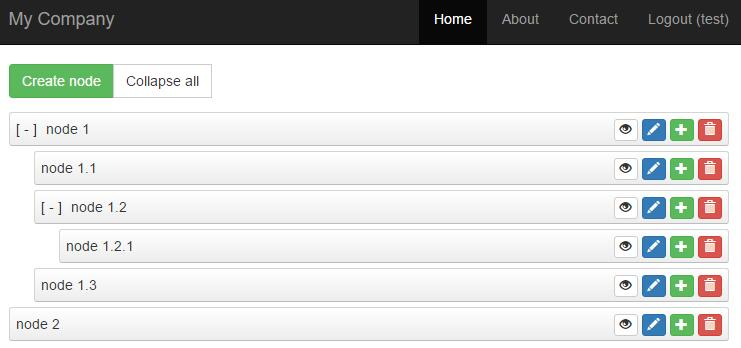
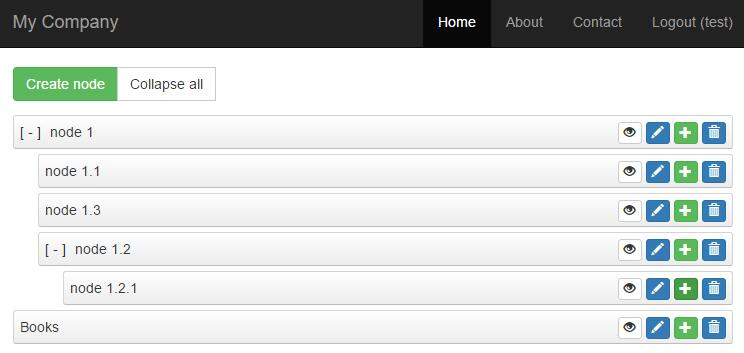
v0.0.17 (ADD# node move action)

diff --git a/src/assets/js/tree-view.js b/src/assets/js/tree-view.js
@@ -1,105 +1,75 @@
+/**
+ * Defines global variables.
+ *
+ * Assigned while jQuery is ready:
+ *
+ * ```
+ * jQuery(document).ready(function () {
+ *     ns = $('ol.sortable').nestedSortable({"isTree":true, ... ,"update":update}); ///update is the allback function of nestedSortable
+ *     treeView = $('#tree-view');
+ *     loading = $('#loading');
+ * });
+ * ```
+ */
+var treeView;
+var loading;
+var ns;
+
+/**
+ * Callback functions of nestedSortable.
+ */
+function update(e, obj) {
+    treeView.css({opacity: .4});
+    loading.fadeIn();
+    ns.nestedSortable('disable');
+
+    var url = obj.item.data('action-url');
+    var parent = obj.item.parents('li');
+    var before = obj.item.prev();
+    var data = {
+        parent_id: parent.length ? parent.data('node-id') : 0,
+        before_id: before.length ? before.data('node-id') : 0
+    };
+
+    jQuery.ajax({
+        url: url,
+        method: 'post',
+        data: data,
+        success: function () {
+            ns.nestedSortable('enable');
+            loading.fadeOut();
+            treeView.css({opacity: 1});
+        },
+        error: function () {
+            ns.nestedSortable('cancel');    ///restore orignal sort node list if error
+            ns.nestedSortable('enable');
+            loading.fadeOut();
+            treeView.css({opacity: 1});
+        }
+    });
+};
+
+/**
+ * Event handers.
+ */
 jQuery(function () {
-	$('.disclose').attr('title','Click to show/hide children');
-	$('.disclose').on('click', function() {
-	    $(this).closest('li').toggleClass('mjs-nestedSortable-collapsed').toggleClass('mjs-nestedSortable-expanded');
-	    $(this).toggleClass('ui-icon-plusthick').toggleClass('ui-icon-minusthick');
-	});
-
-	// $('nestable-menu [data-action]').on('click', function(e) {
- //        e.preventDefault();
-	// 	var target = $(e.target),
-	// 	    action = target.data('action');
-	// 	switch (action) {
-	// 		case 'expand-all':
-	// 		    $('#{$this->id}').nestable('expandAll');
-	// 		    $('.{$this->id}-nestable-menu [data-action=\"expand-all\"]').hide();
-	// 		    $('.{$this->id}-nestable-menu [data-action=\"collapse-all\"]').show();
-	// 			break;
-	// 		case 'collapse-all':
-	// 		    $('#{$this->id}').nestable('collapseAll');
-	// 		    $('.{$this->id}-nestable-menu [data-action=\"expand-all\"]').show();
-	// 		    $('.{$this->id}-nestable-menu [data-action=\"collapse-all\"]').hide();
-	// 			break;
-	// 	}
-	// });
-
-	$("#collapse-all").on('click', function() {
-	    $('.mjs-nestedSortable-branch').addClass('mjs-nestedSortable-collapsed').removeClass('mjs-nestedSortable-expanded');
-	    $('.disclose').removeClass('ui-icon-minusthick').addClass('ui-icon-plusthick');
-	    $(this).hide();
-	    $("#expand-all").show();
-	});
-	$("#expand-all").on('click', function() {
-	    $('.mjs-nestedSortable-branch').addClass('mjs-nestedSortable-expanded').removeClass('mjs-nestedSortable-collapsed');
-	    $('.disclose').removeClass('ui-icon-plusthick').addClass('ui-icon-minusthick');
-	    $(this).hide();
-	    $("#collapse-all").show();
-	});
-
-
-
-    jQuery(document).on('click', '.collapse-list-btn', function () {
-        jQuery(this).find('i').toggleClass('fa-arrow-down').toggleClass('fa-arrow-up');
+    ///Click event hander of `disclose` that show/hide children
+    $('.disclose').attr('title', 'Click to show/hide children');
+    $('.disclose').on('click', function() {
+        $(this).closest('li').toggleClass('mjs-nestedSortable-collapsed').toggleClass('mjs-nestedSortable-expanded');
     });
 
-    var treeView = jQuery('#treeView');
-    var formName = treeView.data('formName');
-
-    treeView.find('> ol').nestedSortable({
-        items: '.category-list-item',
-        helper: 'clone',
-        handle: '.drag-btn',
-        toleranceElement: '> div',
-        isTree: true,
-        update: function (e, obj) {
-            treeView.css({opacity: 0.4});
-            var url = obj.item.data('updateUrl');
-            var parent = obj.item.parents('li');
-            var before = obj.item.prev();
-            var data = {};
-            data[formName] = {
-                beforeId: before.length ? before.data('id') : 0,
-                parent_id: parent.length ? parent.data('id') : 0
-            };
-            jQuery.ajax({
-                url: url,
-                method: 'post',
-                data: data,
-                success: function () {
-                    treeView.css({opacity: 1});
-                    updateCollapseButtons();
-                },
-                error: function () {
-                }
-            });
-            
-        }
-    }).disableSelection();
-
-    function updateCollapseButtons() {
-        console.log('trigger');
-        var items = treeView.find('li');
-        items.each(function () {
-            var item = jQuery(this);
-            var btn = item.find('> div .collapse-list-btn');
-            var list = item.find('> ol');
-            if (list.children().length) {
-                btn.removeClass('disabled');
-                if (list.hasClass('in')) {
-                    btn.find('i').removeClass('fa-arrow-down').addClass('fa-arrow-up');
-                } else {
-                    btn.find('i').removeClass('fa-arrow-up').addClass('fa-arrow-down');
-                }
-            } else {
-                btn.addClass('btn-default');
-            }
-        });
-    }
-
-    if (selectedCategoryId) {
-        treeView.find('#categoryList' + selectedCategoryId).parents('li').each(function () {
-            jQuery(this).find('>div>.collapse-list-btn').click();
-        });
-    }
-    
+    ///Click event handers of `collapse-all`, `expand-all`
+    $('#collapse-all').attr('title', 'Click to collapse all nodes');
+    $('#collapse-all').on('click', function() {
+        $('.mjs-nestedSortable-branch').addClass('mjs-nestedSortable-collapsed').removeClass('mjs-nestedSortable-expanded');
+        $(this).hide();
+        $("#expand-all").show();
+    });
+    $('#expand-all').attr('title', 'Click to expand all nodes');
+    $('#expand-all').on('click', function() {
+        $('.mjs-nestedSortable-branch').addClass('mjs-nestedSortable-expanded').removeClass('mjs-nestedSortable-collapsed');
+        $(this).hide();
+        $("#collapse-all").show();
+    });
 });

diff --git a/src/assets/css/tree-view.css b/src/assets/css/tree-view.css
@@ -1,4 +1,4 @@
-.placeholder {
+.sortable .placeholder {
     outline: 1px dashed #4183C4;
 }
 ol {
@@ -49,7 +49,7 @@ ol.sortable {
 }
 .disclose {
     cursor: pointer;
-    width: 10px;
+    width: 30px;
     display: none;
 }
 .sortable li.mjs-nestedSortable-collapsed > ol {
@@ -59,9 +59,20 @@ ol.sortable {
     display: inline-block;
 }
 .sortable li.mjs-nestedSortable-collapsed > div > .disclose > span:before {
-    content:'+ ';
+    content:'[ + ]';
 }
 .sortable li.mjs-nestedSortable-expanded > div > .disclose > span:before {
-    content:'- ';
+    content:'[ - ]';
 }
-
+.loading {
+  display: none;
+  position: absolute;
+  top: 0;
+  right: 0;
+  bottom: 0;
+  left: 0;
+  background: #fff url("../images/loading.gif") no-repeat center center;
+  opacity: .75;
+  filter: alpha(opacity=75);
+  z-index: 20170428;
+}

diff --git a/src/widgets/TreeView.php b/src/widgets/TreeView.php
@@ -41,7 +41,7 @@ class TreeView extends Widget
      *
      * @see \yii\helpers\Html::renderTagAttributes() for details on how attributes are being rendered.
      */
-    public $options = [];
+    public $options = ['id' => 'tree-view'];
 
     /**
      * @var array the client script options for `jquery.mjs.nestedSortable.js`. The following special options are recognized:
@@ -55,7 +55,7 @@ class TreeView extends Widget
      * @var array additional client event options that can be passed to the constructor of the treeview js object.
      */
     public $clientEventOptions = [
-        'update' => "function(){ console.log('Relocated item'); }",
+        'update' => 'update',   ///[node move action] call update function in `tree.js`. You can configure it to override your update logic.
     ];
 
     /**
@@ -123,6 +123,8 @@ class TreeView extends Widget
 
     /**
      * @var array the node actions.
+     *
+     * Note: Configure move action by `clientEventOptions` and handled in `renderNode()`. ///[node move action]
      */
     public $nodeActions = [
         'view' => [
@@ -146,7 +148,7 @@ class TreeView extends Widget
         'delete' => [
             'actionText' => '<span class="glyphicon glyphicon-trash"></span>',
             'actionOptions' => [
-                'class' => 'btn btn-xs btn-primary',
+                'class' => 'btn btn-xs btn-danger',
                 'data-confirm' => 'Are you sure you want to delete this item?', ///???i18n
                 'data-method' => 'post',
                 ///for ajax
@@ -191,6 +193,23 @@ class TreeView extends Widget
     public $encodeNodeNames = true;
 
     /**
+     * @var array the HTML attributes for the [loading] tag. The following special options are recognized:
+     *
+     * - tag: string, defaults to "div", the tag name of the [loading] tags. 
+     *   Set to false to disable [loading] tag.
+     *   See also [[\yii\helpers\Html::tag()]].
+     *
+     * @see \yii\helpers\Html::renderTagAttributes() for details on how attributes are being rendered.
+     */
+    public $loadingOptions = [
+        'id' => 'loading',
+        'class' => 'loading',
+        'aria-label' => 'Loading',
+        'role' => 'img',
+        'tabindex' => '-1',
+    ];
+
+    /**
      * @var array the default client script options for `jquery.mjs.nestedSortable.js`.
      * @see https://github.com/ilikenwf/nestedSortable/blob/master/jquery.mjs.nestedSortable.js#L35
      */
@@ -226,6 +245,7 @@ class TreeView extends Widget
     public function run()
     {
         $this->registerClient();
+        $this->renderLoading();
         return $this->renderTree();
     }
 
@@ -238,7 +258,24 @@ class TreeView extends Widget
         TreeViewAsset::register($view);
 
         $selector = ArrayHelper::remove($this->clientOptions, 'selector', 'ol.sortable');
-        $view->registerJs("$('{$selector}').nestedSortable(" . Json::htmlEncode($this->clientOptions) . ");");
+        $view->registerJs("ns = $('{$selector}').nestedSortable(" . Json::htmlEncode($this->clientOptions) . ");");
+
+        $treeView = $this->options['id'];
+        $loading = $this->loadingOptions['id'];
+        $view->registerJs(<<<JS
+treeView = $('#{$treeView}');
+loading = $('#{$loading}');
+JS
+        );
+    }
+
+    /**
+     * Renders loading.
+     */
+    protected function renderLoading()
+    {
+        $tag = ArrayHelper::remove($this->loadingOptions, 'tag', 'div');
+        echo Html::tag($tag, '', $this->loadingOptions);
     }
 
     /**
@@ -270,7 +307,10 @@ class TreeView extends Widget
 
         $lines[] = Html::beginTag('div', ['class' => 'btn-group']);
 
+        $title = Yii::t('yii', 'Create a root node');
         $lines[] = Html::button('Create node', [
+            'title' => $title,
+            'aria-label' => $title,
             'data-action-name' => 'create',
             'class' => 'btn btn-success',
             'onclick' => '{location.href="' . $this->createUrl('create') . '"}',
@@ -339,6 +379,8 @@ class TreeView extends Widget
         $nodeOptions = array_merge([
             'data-node-id' => $node['id'],
             'data-node-name' => Html::encode($node['name']),
+            'data-action-name' => 'move',   ///[node move action]
+            'data-action-url' => Url::to(ArrayHelper::getValue($node, 'move-url', $this->createUrl('move', $node))),
             // more node data ...
         ], $this->nodeOptions, ArrayHelper::getValue($node, 'options', []));
         $tag = ArrayHelper::remove($nodeOptions, 'tag', 'li');

diff --git a/README.md b/README.md
@@ -1,4 +1,4 @@
-# yii2-tree-manager v0.0.16 (re-organize)
+# yii2-tree-manager v0.0.17 (ADD# node move action)
 
 [![Latest Stable Version](https://poser.pugx.org/yongtiger/yii2-tree-manager/v/stable)](https://packagist.org/packages/yongtiger/yii2-tree-manager)
 [![Total Downloads](https://poser.pugx.org/yongtiger/yii2-tree-manager/downloads)](https://packagist.org/packages/yongtiger/yii2-tree-manager) 

diff --git a/docs/development-roadmap.md b/docs/development-roadmap.md
@@ -1,5 +1,11 @@
 # Development roadmap
 
+## v0.0.17 (ADD# node move action)
+
+* `\widgets\TreeView.php`
+* `\assets\js\tree-view.js`
+
+
 ## v0.0.16 (re-organize)
 
 * `\widgets\TreeView.php`
